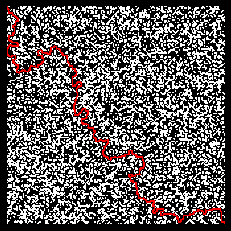
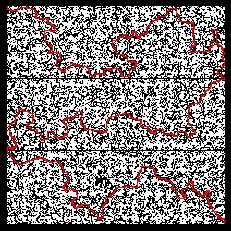
matrix multiplication optima

diff --git a/code/maze.py b/code/maze.py
@@ -2,41 +2,7 @@ import numpy as np
 import matplotlib.pyplot as plt
 from matplotlib.colors import ListedColormap
 from typing import Literal
-from numba import njit
-
-
-@njit
-def shortest_check(
-    incident_matrix: np.ndarray,
-    start_node: int = 0,
-    end_node: int | None = None
-) -> bool:
-    """
-    This method checks if there is a path
-    from start_node to end_node in the maze.
-    It uses BFS algorithm.
-    If there is a path, it returns True otherwise False.
-    It uses numba to speed up the function.
-    """
-    if end_node is None:
-        end_node = incident_matrix.shape[0] - 1
-    visited = np.zeros(incident_matrix.shape[0], dtype=np.bool_)
-    visited[start_node] = True
-    queue = np.zeros(incident_matrix.shape[0], dtype=np.int64)
-    queue[0] = start_node
-    queue_start = 0
-    queue_end = 1
-    while queue_start != queue_end:
-        current = queue[queue_start]
-        queue_start += 1
-        if current == end_node:
-            return True
-        for i in range(incident_matrix.shape[0]):
-            if not visited[i] and incident_matrix[current, i]:
-                visited[i] = True
-                queue[queue_end] = i
-                queue_end += 1
-    return False
+from scipy.sparse import csr_matrix
 
 
 class Maze:
@@ -103,31 +69,53 @@ class Maze:
         non_solvable = 0
         height, width = maze.shape
         numbers = np.random.choice(
-            range(1, width**2), width**2 - 1, replace=False)
+            range(1, width**2 - 1), width**2 - 2, replace=False)
         i = 0
-        while non_solvable < iter_num and i < width**2 - 1:
+        while non_solvable < iter_num and i < numbers.size:
             num = numbers[i]
             row = num // width
             column = num % width
             maze[row, column] = 1
-            incident_matrix_copy = incident_matrix[num, :].copy()
-            incident_matrix[num, :] = 0
-            incident_matrix[:, num] = 0
-            if not shortest_check(incident_matrix):
+            incident_og = incident_matrix.copy()
+            indices = np.where(incident_matrix.indices == num)
+            incident_matrix.data[indices] = 0
+            if not self.shortest_check(incident_matrix):
                 non_solvable += 1
-                incident_matrix[num, :] = incident_matrix_copy
-                incident_matrix[:, num] = incident_matrix_copy
+                incident_matrix.data[indices] = incident_og.data[indices]
                 maze[row, column] = 0
             i += 1
         return maze
 
-    def incident(self, maze: np.ndarray[np.bool_]) -> np.ndarray[np.int64]:
+    def shortest_check(
+        self,
+        incident_matrix: csr_matrix,
+        start_node: int = 0,
+        end_node: int | None = None
+    ) -> bool:
+        """
+        This method checks if there is a path
+        from start_node to end_node in the maze.
+        It uses BFS algorithm implemented with matrix multiplication.
+        If there is a path, it returns True otherwise False.
+        """
+        if end_node is None:
+            end_node = incident_matrix.shape[0] - 1
+        size = incident_matrix.shape[0]
+        possible = np.zeros(size, dtype=bool)
+        possible[start_node] = True
+        for i in range(size - 1):
+            possible = incident_matrix.dot(possible)
+            if possible[end_node]:
+                return True
+        return False
+
+    def incident(self, maze: np.ndarray[np.bool_]) -> csr_matrix:
         """
         This method creates incident matrix from given maze.
         It creates a graph from the maze and returns its incident matrix.
         """
         height, width = maze.shape
-        incident_matrix = np.zeros((height*width, height*width))
+        incident_matrix = np.zeros((height*width, height*width), dtype=bool)
         for i in range(height):
             for j in range(width):
                 if not maze[i, j]:
@@ -140,11 +128,11 @@ class Maze:
                         incident_column = i * width + j + 1
                         incident_matrix[incident_row, incident_column] = 1
                         incident_matrix[incident_column, incident_row] = 1
-        return incident_matrix
+        return csr_matrix(incident_matrix)
 
     def find_shortest_path(
         self,
-        incident_matrix: np.ndarray[np.int64],
+        incident_matrix: csr_matrix,
         start_node: int = 0,
         end_node: int | None = None
     ) -> list[int]:
@@ -165,8 +153,10 @@ class Maze:
             path = list_of_paths.pop(0)
             if current == end_node:
                 return path
-            for i in range(incident_matrix.shape[0]):
-                if not visited[i] and incident_matrix[current, i]:
+            start = incident_matrix.indptr[current]
+            end = incident_matrix.indptr[current + 1]
+            for i in incident_matrix.indices[start:end]:
+                if not visited[i]:
                     visited[i] = True
                     queue.append(i)
                     list_of_paths.append(path + [i])
